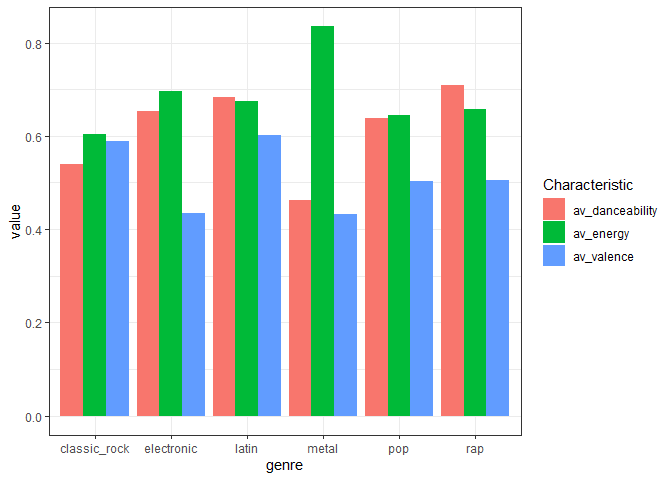
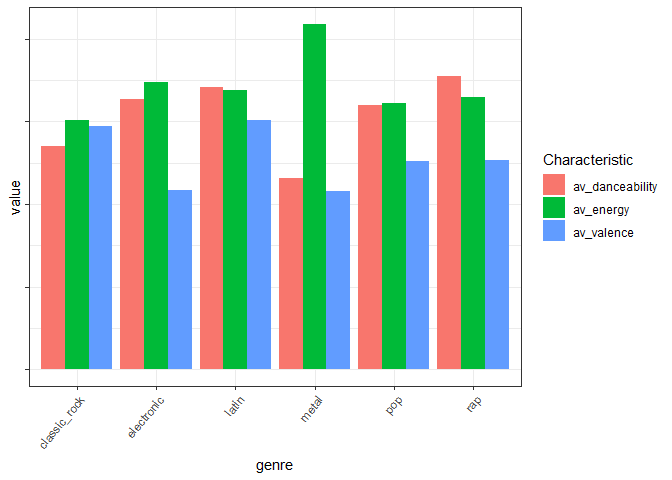
Update markdown

diff --git a/SpotifyDataAnalysisMarkdown.html b/SpotifyDataAnalysisMarkdown.html
@@ -572,8 +572,9 @@ generi.</p>
 <span id="cb5-24"><a href="#cb5-24" aria-hidden="true" tabindex="-1"></a>    <span class="co"># Creazione grafico </span></span>
 <span id="cb5-25"><a href="#cb5-25" aria-hidden="true" tabindex="-1"></a>    <span class="fu">ggplot</span>(genre_analysis_average, <span class="fu">aes</span>(<span class="at">fill=</span>Characteristic, <span class="at">y=</span>value, <span class="at">x=</span>genre)) <span class="sc">+</span> </span>
 <span id="cb5-26"><a href="#cb5-26" aria-hidden="true" tabindex="-1"></a>      <span class="fu">geom_bar</span>(<span class="at">position=</span><span class="st">&quot;dodge&quot;</span>, <span class="at">stat=</span><span class="st">&quot;identity&quot;</span>) <span class="sc">+</span></span>
-<span id="cb5-27"><a href="#cb5-27" aria-hidden="true" tabindex="-1"></a>      <span class="fu">theme_bw</span>()</span></code></pre></div>
[1 lines of base64/hex data omitted]
+<span id="cb5-27"><a href="#cb5-27" aria-hidden="true" tabindex="-1"></a>      <span class="fu">theme_bw</span>()<span class="sc">+</span></span>
+<span id="cb5-28"><a href="#cb5-28" aria-hidden="true" tabindex="-1"></a>      <span class="fu">theme</span>(<span class="at">axis.text.x =</span> <span class="fu">element_text</span>(<span class="at">angle =</span> <span class="dv">50</span>, <span class="at">hjust =</span> <span class="dv">1</span>),<span class="at">axis.text.y =</span> <span class="fu">element_blank</span>())</span></code></pre></div>
[1 lines of base64/hex data omitted]
 </div>
 <div id="correlazione-tra-variabili" class="section level2">
 <h2>Correlazione tra variabili</h2>
@@ -897,24 +898,83 @@ del brano è sempre alto</p>
 <div id="top-10-artisti-a-livello-mondiale" class="section level2">
 <h2>Top 10 artisti a livello mondiale</h2>
 <div class="sourceCode" id="cb18"><pre class="sourceCode r"><code class="sourceCode r"><span id="cb18-1"><a href="#cb18-1" aria-hidden="true" tabindex="-1"></a>  <span class="co"># Data-frame</span></span>
-<span id="cb18-2"><a href="#cb18-2" aria-hidden="true" tabindex="-1"></a>    </span>
-<span id="cb18-3"><a href="#cb18-3" aria-hidden="true" tabindex="-1"></a>    top_10_artist <span class="ot">&lt;-</span> all_genre_top_artist <span class="sc">%&gt;%</span></span>
-<span id="cb18-4"><a href="#cb18-4" aria-hidden="true" tabindex="-1"></a>      <span class="fu">arrange</span>(<span class="fu">desc</span>(popularity)) <span class="sc">%&gt;%</span></span>
-<span id="cb18-5"><a href="#cb18-5" aria-hidden="true" tabindex="-1"></a>      <span class="fu">head</span>(<span class="dv">10</span>)</span>
-<span id="cb18-6"><a href="#cb18-6" aria-hidden="true" tabindex="-1"></a>    </span>
-<span id="cb18-7"><a href="#cb18-7" aria-hidden="true" tabindex="-1"></a>  <span class="co"># Analisi top 10 artisti</span></span>
-<span id="cb18-8"><a href="#cb18-8" aria-hidden="true" tabindex="-1"></a>    </span>
-<span id="cb18-9"><a href="#cb18-9" aria-hidden="true" tabindex="-1"></a>    top_10_artist <span class="sc">%&gt;%</span></span>
-<span id="cb18-10"><a href="#cb18-10" aria-hidden="true" tabindex="-1"></a>      <span class="fu">count</span>(genre) <span class="sc">%&gt;%</span></span>
-<span id="cb18-11"><a href="#cb18-11" aria-hidden="true" tabindex="-1"></a>      <span class="fu">ggplot</span>() <span class="sc">+</span></span>
-<span id="cb18-12"><a href="#cb18-12" aria-hidden="true" tabindex="-1"></a>      <span class="fu">geom_col</span>(<span class="fu">aes</span>(<span class="at">x =</span> genre, <span class="at">y =</span> n, <span class="at">fill =</span> genre)) <span class="sc">+</span></span>
-<span id="cb18-13"><a href="#cb18-13" aria-hidden="true" tabindex="-1"></a>      <span class="fu">coord_polar</span>() <span class="sc">+</span></span>
-<span id="cb18-14"><a href="#cb18-14" aria-hidden="true" tabindex="-1"></a>      <span class="fu">theme_bw</span>() <span class="sc">+</span></span>
-<span id="cb18-15"><a href="#cb18-15" aria-hidden="true" tabindex="-1"></a>      <span class="fu">theme</span>(<span class="at">axis.text.x =</span> <span class="fu">element_text</span>(<span class="at">hjust =</span> <span class="dv">1</span>), </span>
-<span id="cb18-16"><a href="#cb18-16" aria-hidden="true" tabindex="-1"></a>            <span class="at">axis.text.y =</span> <span class="fu">element_text</span>(<span class="at">hjust =</span> <span class="dv">1</span>)) <span class="sc">+</span> </span>
-<span id="cb18-17"><a href="#cb18-17" aria-hidden="true" tabindex="-1"></a>      <span class="fu">ggtitle</span>(<span class="st">&quot;Most popular artist genre&quot;</span>) <span class="sc">+</span> </span>
-<span id="cb18-18"><a href="#cb18-18" aria-hidden="true" tabindex="-1"></a>      <span class="fu">xlab</span>(<span class="st">&quot;Artist genre&quot;</span>) <span class="sc">+</span> </span>
-<span id="cb18-19"><a href="#cb18-19" aria-hidden="true" tabindex="-1"></a>      <span class="fu">ylab</span>(<span class="st">&quot;Number of time that comapre a genre&quot;</span>)</span></code></pre></div>
+<span id="cb18-2"><a href="#cb18-2" aria-hidden="true" tabindex="-1"></a>    top_10_artist <span class="ot">&lt;-</span> all_genre_top_artist <span class="sc">%&gt;%</span></span>
+<span id="cb18-3"><a href="#cb18-3" aria-hidden="true" tabindex="-1"></a>      <span class="fu">arrange</span>(<span class="fu">desc</span>(popularity)) <span class="sc">%&gt;%</span></span>
+<span id="cb18-4"><a href="#cb18-4" aria-hidden="true" tabindex="-1"></a>      <span class="fu">head</span>(<span class="dv">10</span>)</span></code></pre></div>
+<table>
+<thead>
+<tr class="header">
+<th>Nome Artista</th>
+<th>Genere</th>
+<th>Popolarità</th>
+</tr>
+</thead>
+<tbody>
+<tr class="odd">
+<td>Bad Bunny</td>
+<td>latin</td>
+<td>100</td>
+</tr>
+<tr class="even">
+<td>Drake</td>
+<td>rap</td>
+<td>95</td>
+</tr>
+<tr class="odd">
+<td>Taylor Swift</td>
+<td>pop</td>
+<td>93</td>
+</tr>
+<tr class="even">
+<td>The Weeknd</td>
+<td>pop</td>
+<td>93</td>
+</tr>
+<tr class="odd">
+<td>Harry Styles</td>
+<td>pop</td>
+<td>91</td>
+</tr>
+<tr class="even">
+<td>BTS</td>
+<td>pop</td>
+<td>91</td>
+</tr>
+<tr class="odd">
+<td>Justin Bieber</td>
+<td>pop</td>
+<td>90</td>
+</tr>
+<tr class="even">
+<td>Ed Sheeran</td>
+<td>pop</td>
+<td>90</td>
+</tr>
+<tr class="odd">
+<td>Kanye West</td>
+<td>rap</td>
+<td>90</td>
+</tr>
+<tr class="even">
+<td>Eminem</td>
+<td>rap</td>
+<td>90</td>
+</tr>
+</tbody>
+</table>
+<div class="sourceCode" id="cb19"><pre class="sourceCode r"><code class="sourceCode r"><span id="cb19-1"><a href="#cb19-1" aria-hidden="true" tabindex="-1"></a>  <span class="co"># Analisi top 10 artisti</span></span>
+<span id="cb19-2"><a href="#cb19-2" aria-hidden="true" tabindex="-1"></a>    </span>
+<span id="cb19-3"><a href="#cb19-3" aria-hidden="true" tabindex="-1"></a>    top_10_artist <span class="sc">%&gt;%</span></span>
+<span id="cb19-4"><a href="#cb19-4" aria-hidden="true" tabindex="-1"></a>      <span class="fu">count</span>(genre) <span class="sc">%&gt;%</span></span>
+<span id="cb19-5"><a href="#cb19-5" aria-hidden="true" tabindex="-1"></a>      <span class="fu">ggplot</span>() <span class="sc">+</span></span>
+<span id="cb19-6"><a href="#cb19-6" aria-hidden="true" tabindex="-1"></a>      <span class="fu">geom_col</span>(<span class="fu">aes</span>(<span class="at">x =</span> genre, <span class="at">y =</span> n, <span class="at">fill =</span> genre)) <span class="sc">+</span></span>
+<span id="cb19-7"><a href="#cb19-7" aria-hidden="true" tabindex="-1"></a>      <span class="fu">coord_polar</span>() <span class="sc">+</span></span>
+<span id="cb19-8"><a href="#cb19-8" aria-hidden="true" tabindex="-1"></a>      <span class="fu">theme_bw</span>() <span class="sc">+</span></span>
+<span id="cb19-9"><a href="#cb19-9" aria-hidden="true" tabindex="-1"></a>      <span class="fu">theme</span>(<span class="at">axis.text.x =</span> <span class="fu">element_text</span>(<span class="at">hjust =</span> <span class="dv">1</span>), </span>
+<span id="cb19-10"><a href="#cb19-10" aria-hidden="true" tabindex="-1"></a>            <span class="at">axis.text.y =</span> <span class="fu">element_text</span>(<span class="at">hjust =</span> <span class="dv">1</span>)) <span class="sc">+</span> </span>
+<span id="cb19-11"><a href="#cb19-11" aria-hidden="true" tabindex="-1"></a>      <span class="fu">ggtitle</span>(<span class="st">&quot;Most popular artist genre&quot;</span>) <span class="sc">+</span> </span>
+<span id="cb19-12"><a href="#cb19-12" aria-hidden="true" tabindex="-1"></a>      <span class="fu">xlab</span>(<span class="st">&quot;Artist genre&quot;</span>) <span class="sc">+</span> </span>
+<span id="cb19-13"><a href="#cb19-13" aria-hidden="true" tabindex="-1"></a>      <span class="fu">ylab</span>(<span class="st">&quot;Number of time that comapre a genre&quot;</span>)</span></code></pre></div>
[1 lines of base64/hex data omitted]
 <p>
 <p>Come per le canzoni pop, gli artisti pop sono molto più famosi
